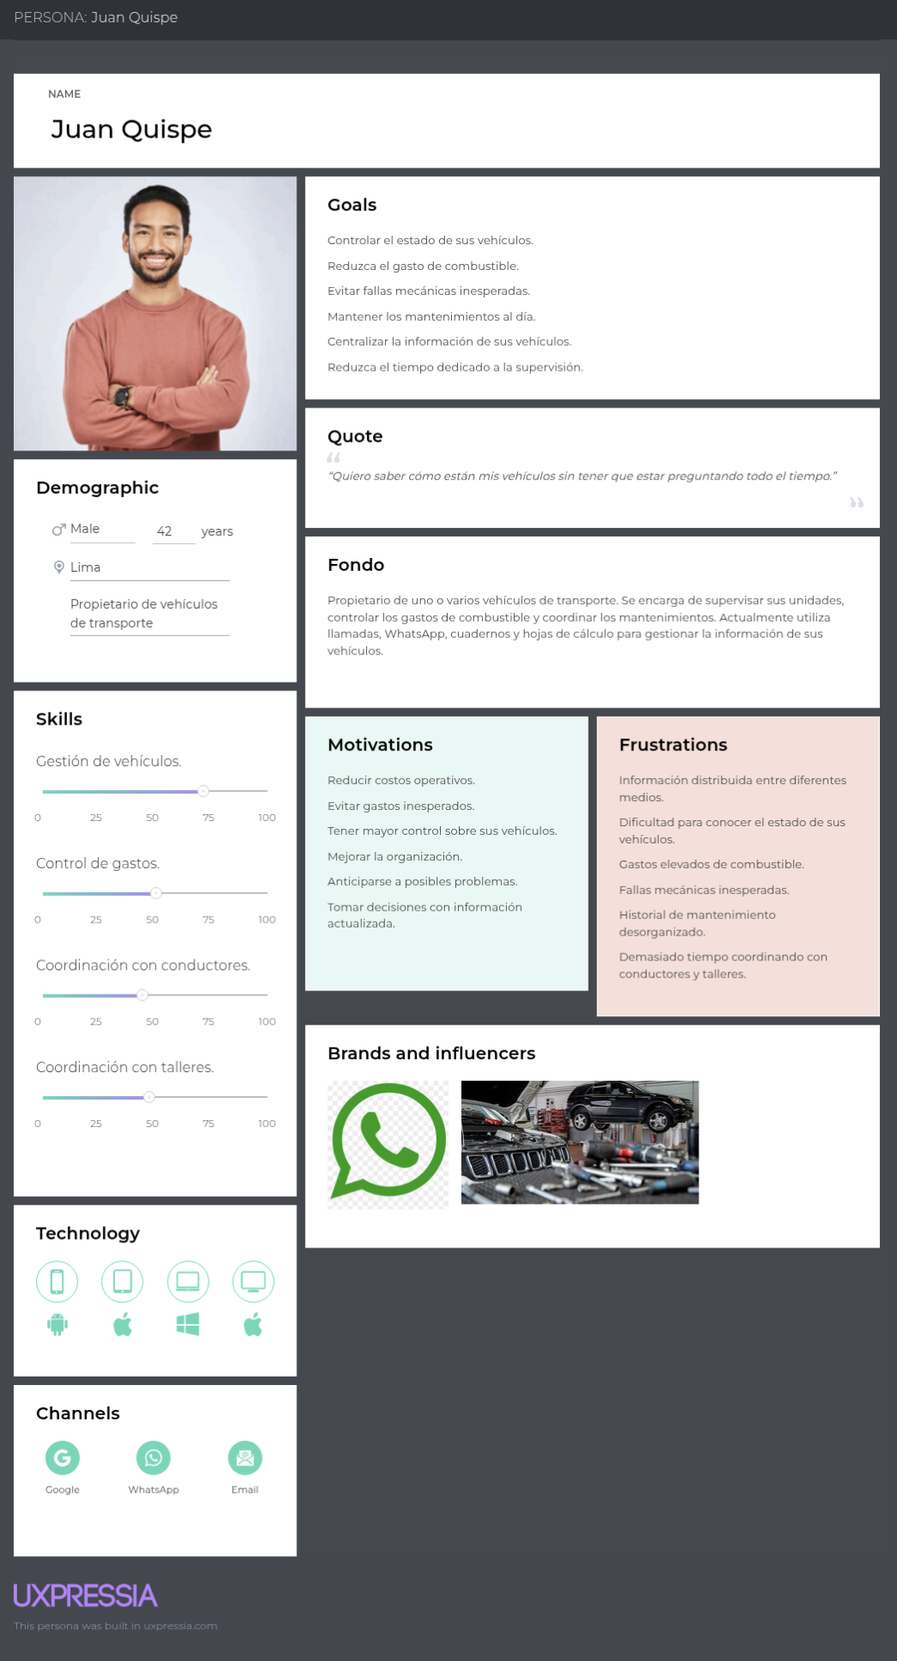
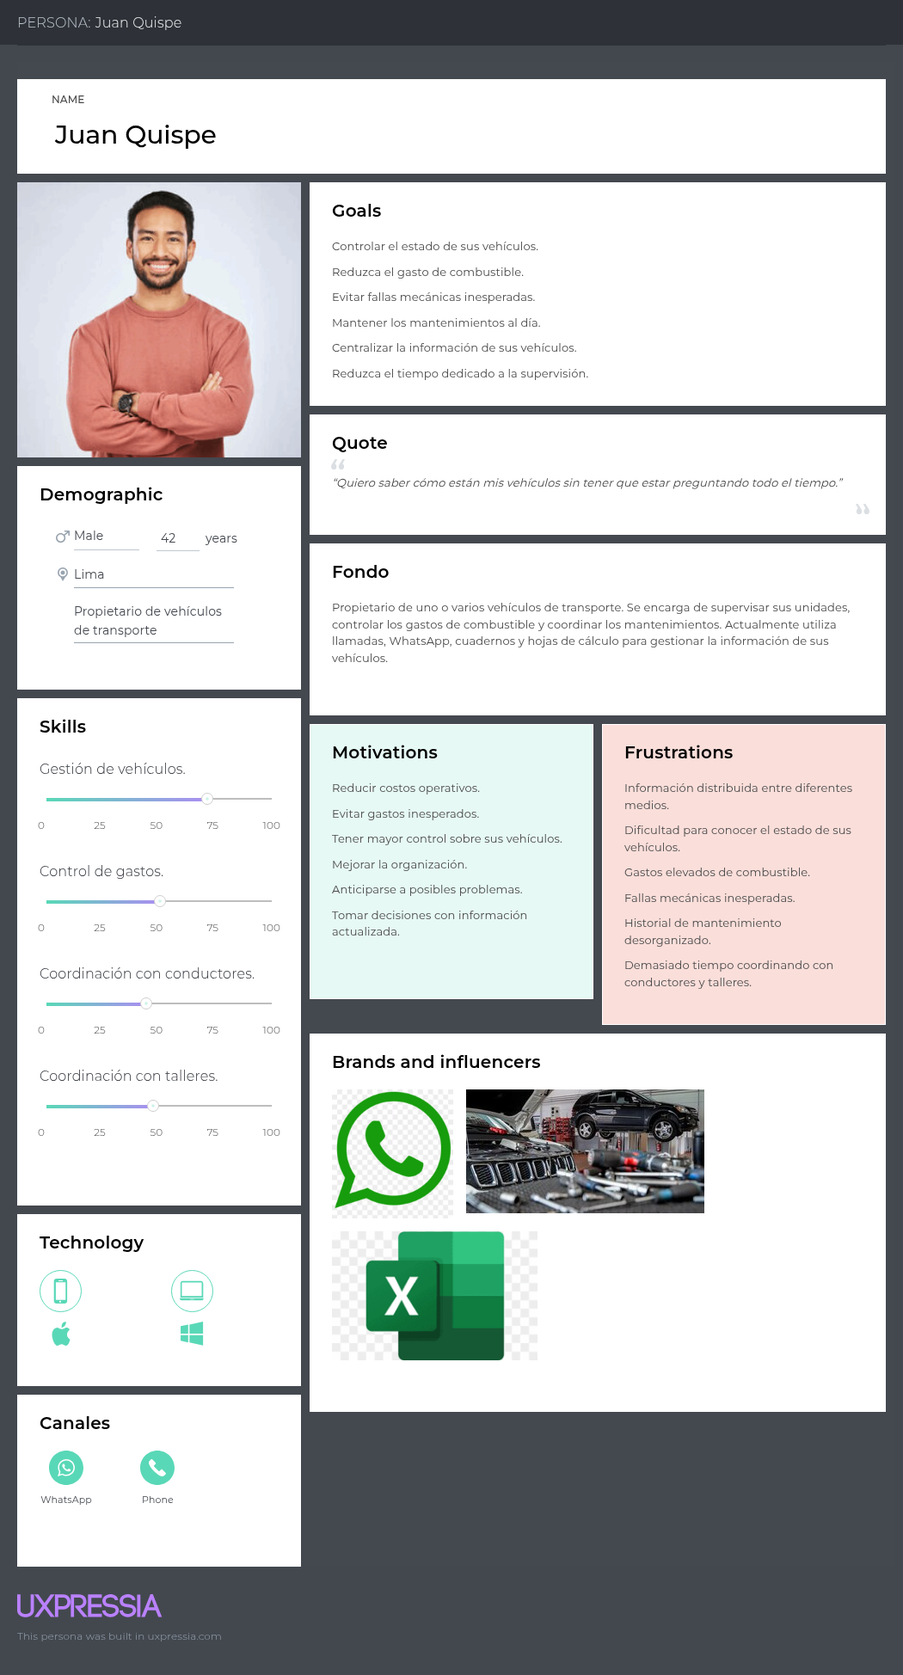
docs: update needfinding and eventstorming sections

diff --git a/report/24-big-picture-eventstorming.md b/report/24-big-picture-eventstorming.md
@@ -2,11 +2,9 @@
 
 
 
-Para iniciar el modelado de la arquitectura de **FLOTIX**, el equipo realizó una sesión de **Big Picture Event Storming**. El objetivo principal fue explorar de manera integral el dominio de la gestión de flotas, identificando los eventos significativos que ocurren durante el ciclo de vida de los vehículos y las actividades relacionadas con su operación, combustible, mantenimiento, incidencias y monitoreo.
+Para iniciar el modelado de la arquitectura de FLOTIX, el equipo realizó una sesión de Big Picture Event Storming centrada en el proceso actual del negocio, sin la plataforma. El objetivo fue explorar cómo se gestionan hoy las flotas de transporte, identificando los eventos significativos que ocurren durante la operación diaria, el control de combustible y kilometraje, las incidencias y el mantenimiento, cuando se depende de hojas de cálculo, cuadernos físicos, llamadas telefónicas y mensajería instantánea.
 
-
-
-Durante esta etapa, se utilizó una narrativa cronológica para representar los principales eventos del negocio y comprender la interacción entre los diferentes actores y procesos de FLOTIX. El equipo tomó como referencia los nueve **Bounded Contexts** identificados: *Vehicle & Fleet Management, Fuel Control, Maintenance Management, Incident Management, Real-Time Monitoring / Fleet Tracking, Alerts & Notifications, Identity, Profiles & Security, Digital Experience / IoT Commerce* y *Reporting & Analytics*.
+Se utilizó una narrativa cronológica para representar los eventos del negocio y entender la interacción entre los actores involucrados: el dueño o administrador, el conductor, el taller mecánico y el pasajero. El propósito no fue definir detalles técnicos, sino obtener una visión general del dominio, identificar los puntos críticos del proceso actual y establecer un lenguaje común (Ubiquitous Language) entre los integrantes del equipo.
 
 
 
@@ -22,11 +20,10 @@ A través del proceso de Big Picture EventStorming, logramos identificar los pri
 
 
 
-- **Eventos del Dominio (Naranja):** Se identificaron eventos importantes como "Vehículo Registrado", "Conductor Asignado", "Combustible Registrado", "Kilometraje Actualizado", "Mantenimiento Programado", "Incidencia Reportada" y "Vehículo Disponible".
+- **Eventos del Dominio (Naranja):** se identificaron 22 eventos, entre ellos Vehicle Registered in Spreadsheet, Driver Assigned by Phone Call, Fuel Expense Recorded in Notebook, Incident Reported by Phone Call, Repair Quote Given Verbally y Emergency Repair Performed.
+- **Puntos de Dolor (Rosado):** registro manual de combustible y kilometraje, ausencia de información centralizada sobre el estado de los vehículos, reporte tardío de fallas, cotizaciones y aprobaciones sin respaldo y mantenimiento que depende de la memoria del dueño.
+- **Hotspots (Púrpura):** falta de ubicación y visibilidad en tiempo real, imposibilidad de verificar el consumo real de combustible, ausencia de historial del vehículo y detección tardía de sobrecostos.
 
-- **Puntos de Dolor (Rosado):** Se identificaron dificultades relacionadas con el registro manual de combustible y kilometraje, la falta de información centralizada sobre el estado de los vehículos, el reporte tardío de fallas y la poca visibilidad sobre el mantenimiento preventivo.
-
-- **Hotspots (Púrpura):** Se detectaron puntos que requieren especial atención, principalmente la necesidad de contar con información actualizada mediante dispositivos IoT/GPS, alertas automáticas para mantenimiento y un historial que permita realizar seguimiento a las incidencias y gastos de cada vehículo.
 
 
 
@@ -36,33 +33,22 @@ A través del proceso de Big Picture EventStorming, logramos identificar los pri
 
 ## Paso 1: Exploración Desestructurada (Unstructured Exploration)
 
+Esta primera fase consistió en una lluvia de ideas para identificar los Eventos de Dominio del proceso actual. El equipo identificó 22 eventos, agrupados por actividad:
+
+- **Registro y asignación:** Vehicle Registered in Spreadsheet, Driver Assigned by Phone Call.
+- **Operación diaria:** Route Started, Departure Reported by WhatsApp, Mileage Noted in Notebook.
+- **Combustible:** Fuel Purchased, Fuel Expense Recorded in Notebook, Fuel Receipt Delivered to Owner, Fuel Expenses Entered in Spreadsheet.
+- **Incidencias:** Vehicle Failure Detected by Driver, Incident Reported by Phone Call.
+- **Mantenimiento:** Owner Called Workshop, Vehicle Taken to Workshop, Repair Quote Given Verbally, Repair Approved by Phone, Emergency Repair Performed, Repair Paid in Cash, Maintenance Remembered by Owner.
+- **Pasajero:** Passenger Waited for Vehicle, Passenger Called Driver for Location.
+- **Control:** Monthly Expenses Reviewed Manually, Fuel Overspending Noticed Late.
 
 
-Esta primera fase consistió en una sesión de lluvia de ideas orientada a identificar los principales Eventos de Dominio relacionados con la gestión de flotas de FLOTIX.
 
 
 
-El equipo identificó eventos correspondientes a las diferentes actividades realizadas por los administradores, conductores y responsables de mantenimiento, entre ellos:
 
-
-
-- **Gestión de Vehículos:** Eventos como `Vehicle Registered`, `Vehicle Information Updated` y `Vehicle Status Updated`.
-
-- **Gestión de Conductores:** Eventos como `Driver Registered`, `Driver Assigned to Vehicle` y `Driver Assignment Updated`.
-
-- **Control de Combustible:** Eventos como `Fuel Consumption Registered` y `Fuel Expense Recorded`.
-
-- **Control de Kilometraje:** Eventos como `Mileage Registered` y `Mileage Updated`.
-
-- **Gestión de Mantenimiento:** Eventos como `Maintenance Scheduled`, `Maintenance Completed` y `Vehicle Maintenance Required`.
-
-- **Gestión de Incidencias:** Eventos como `Vehicle Incident Reported`, `Incident Assigned` e `Incident Resolved`.
-
-- **Monitoreo de Flota:** Eventos relacionados con la ubicación y estado del vehículo, como `Vehicle Location Updated` y `Vehicle Tracking Started`.
-
-- **Alertas:** Identificación de eventos relacionados con alertas por mantenimiento próximo, consumo elevado de combustible o incidencias detectadas.
-
-![Step 1 - Unstructured Exploration](../assets/images/step1.png)
+![Step 1 - Unstructured Exploration](../assets/images/step-1.png)
 
 
 
@@ -72,25 +58,13 @@ El equipo identificó eventos correspondientes a las diferentes actividades real
 
 ## Paso 2: Líneas de Tiempo (Timelines)
 
+Los eventos fueron organizados cronológicamente para representar el flujo actual de operaciones, en cuatro carriles:
 
-
-En este paso, los eventos identificados durante la exploración desestructurada fueron organizados cronológicamente para representar el flujo principal de operaciones de FLOTIX y establecer el **Happy Path**.
-
-
-
-- **Registro y configuración inicial:** El proceso comienza con el registro del vehículo y sus datos principales, seguido por el registro y asignación del conductor correspondiente.
-
-- **Operación del vehículo:** Durante la jornada, se registra el consumo de combustible y el kilometraje recorrido. Mediante la integración con dispositivos IoT/GPS, FLOTIX puede recibir información actualizada sobre la ubicación y el estado del vehículo.
-
-- **Detección de necesidades de mantenimiento:** A partir del kilometraje, tiempo de uso o información registrada, se puede generar una alerta cuando el vehículo requiere mantenimiento.
-
-- **Reporte de incidencias:** Si el conductor detecta una falla durante la operación, puede registrar una incidencia para que el administrador o responsable del mantenimiento pueda gestionarla.
-
-- **Resolución:** La incidencia es evaluada y posteriormente se realiza el mantenimiento o reparación correspondiente, actualizando el estado del vehículo.
-
-- **Continuidad operativa:** Una vez solucionada la incidencia y verificado el vehículo, este puede volver a estar disponible para la operación.
-
-![Step 2 - Timelines](../assets/images/step2.png)
+- **Registro y configuración inicial:** el dueño registra el vehículo en una hoja de cálculo (Vehicle Registered in Spreadsheet) y asigna al conductor mediante una llamada (Driver Assigned by Phone Call).
+- **Operación diaria:** el conductor inicia la ruta (Route Started) y avisa por WhatsApp (Departure Reported by WhatsApp). Anota el kilometraje en un cuaderno (Mileage Noted in Notebook), compra combustible (Fuel Purchased), registra el gasto (Fuel Expense Recorded in Notebook) y entrega el comprobante al dueño (Fuel Receipt Delivered to Owner), quien lo digita en la hoja de cálculo (Fuel Expenses Entered in Spreadsheet). Mientras tanto, el pasajero espera sin información (Passenger Waited for Vehicle) y llama al conductor para saber dónde está (Passenger Called Driver for Location).
+- **Incidencias y mantenimiento:** el conductor detecta una falla (Vehicle Failure Detected by Driver) y la reporta por teléfono (Incident Reported by Phone Call). El dueño llama al taller (Owner Called Workshop), el vehículo es llevado (Vehicle Taken to Workshop) y el taller da una cotización verbal (Repair Quote Given Verbally), que el dueño aprueba por teléfono (Repair Approved by Phone). Se realiza la reparación de emergencia (Emergency Repair Performed) y se paga en efectivo (Repair Paid in Cash).
+- **Control y análisis:** el dueño revisa manualmente los gastos del mes (Monthly Expenses Reviewed Manually), nota tarde el sobrecosto (Fuel Overspending Noticed Late) y recuerda un mantenimiento pendiente solo por memoria (Maintenance Remembered by Owner).
+![Step 2 - Timelines](../assets/images/step-2.png)
 
 
 
@@ -100,33 +74,24 @@ En este paso, los eventos identificados durante la exploración desestructurada 
 
 ## Paso 3: Líneas de Tiempo con Puntos Críticos (Timelines with Hotspots)
 
+En la última etapa se incorporaron los Hotspots (púrpura) para identificar los puntos de dolor y riesgos del proceso actual:
 
+- **Estado de la flota desconocido:** la hoja de cálculo no refleja el estado real de cada unidad (Vehicle Registered in Spreadsheet).
+- **Asignación sin trazabilidad:** depende de llamadas y no queda registro de quién usó cada vehículo (Driver Assigned by Phone Call).
+- **Sin ubicación en tiempo real:** el dueño depende de avisos por WhatsApp (Departure Reported by WhatsApp).
+- **Kilometraje poco confiable:** puede olvidarse, errarse o alterarse (Mileage Noted in Notebook).
+- **Combustible sin verificación:** no se puede comprobar el consumo real ni detectar pérdidas (Fuel Expense Recorded in Notebook).
+- **Doble digitación y pérdida de comprobantes:** aumenta el riesgo de errores (Fuel Expenses Entered in Spreadsheet).
+- **Fallas detectadas tarde:** el problema se nota cuando el vehículo ya falló (Vehicle Failure Detected by Driver).
+- **Coordinación lenta con el taller:** no hay historial del vehículo para el mecánico (Owner Called Workshop).
+- **Cotizaciones verbales:** no hay evidencia ni trazabilidad (Repair Quote Given Verbally).
+- **Mantenimiento correctivo de emergencia:** es más costoso que el preventivo (Emergency Repair Performed).
+- **Mantenimiento por memoria:** el preventivo no se programa a tiempo (Maintenance Remembered by Owner).
+- **Pasajero sin información confiable:** debe llamar para saber dónde está su vehículo (Passenger Called Driver for Location).
+- **Sobrecostos detectados semanas después:** la revisión es manual y tardía (Fuel Overspending Noticed Late).
 
-En la última etapa se incorporaron los **Hotspots**, representados en color púrpura, con el objetivo de identificar puntos de dolor, riesgos y situaciones que pueden afectar la operación de la flota.
-
-
-
-Las principales observaciones fueron:
-
-
-
-- **Registro manual de información:** El registro de combustible y kilometraje puede depender de anotaciones manuales, aumentando el riesgo de errores y pérdida de información.
-
-- **Falta de información en tiempo real:** Sin una integración adecuada con GPS e IoT, el administrador puede tener dificultades para conocer la ubicación y el estado actual de los vehículos.
-
-- **Mantenimiento reactivo:** Cuando las fallas no son detectadas o reportadas oportunamente, el mantenimiento puede realizarse después de que el problema ya afecta la operación del vehículo.
-
-- **Reporte tardío de incidencias:** La comunicación entre el conductor, administrador y taller puede generar retrasos cuando una falla no se registra inmediatamente.
-
-- **Control del consumo de combustible:** La falta de información consolidada dificulta identificar variaciones en el consumo y controlar los gastos asociados a cada vehículo.
-
-- **Ausencia de alertas automáticas:** Sin alertas basadas en kilometraje, tiempo o estado del vehículo, existe el riesgo de no realizar mantenimientos preventivos en el momento adecuado.
-
-- **Trazabilidad de operaciones:** La falta de un historial centralizado de combustible, kilometraje, mantenimiento e incidencias dificulta analizar el comportamiento y evolución de cada vehículo.
-
-- **Hotspot de integración IoT/GPS:** La incorporación de dispositivos IoT representa un punto que requiere definición técnica para garantizar que los datos del vehículo sean recibidos y actualizados correctamente en la plataforma.
-
-![Step 3 - Timelines with Hotspots](../assets/images/step3.png)
+Estos hallazgos evidencian las necesidades que FLOTIX debe abordar: centralizar la información de la flota, automatizar el registro de combustible y kilometraje mediante IoT/GPS, habilitar alertas de mantenimiento preventivo y mantener un historial trazable de cada vehículo.
+![Step 3 - Timelines with Hotspots](../assets/images/step-3.png)
 
 
 

diff --git a/report/23-needfinding.md b/report/23-needfinding.md
@@ -4,10 +4,7 @@
 
 ### 2.3.1. User Personas
 
-
-
-En esta sección se presentan las User Personas de los segmentos objetivo de FLOTIX, construidas a partir del análisis de las entrevistas y del contexto del mercado. Estos arquetipos representan las principales necesidades, comportamientos, objetivos y frustraciones de los usuarios involucrados en la gestión de flotas, y sirven como base para orientar el diseño de la solución.
-
+Las User Personas de FLOTIX son arquetipos ideales que sintetizan lo observado en las entrevistas y en el contexto del mercado. No son retratos de los entrevistados: cada una representa a un usuario típico de su segmento, con su día a día, sus herramientas actuales y lo que espera de una solución.
 
 
 #### User Persona del 1er segmento objetivo – Dueños de vehículos
@@ -15,16 +12,14 @@ En esta sección se presentan las User Personas de los segmentos objetivo de FLO
 ![foto](../assets/images/user-persona-1.png)
 
 
-**Juan Quispe** representa al segmento de dueños de vehículos, construido a partir de las entrevistas realizadas a *Karen Forcelledo*. Se definió como una persona de *39* años, ubicada en Lima, que posee uno o varios vehículos destinados al transporte particular, de pasajeros o de carga, y que participa directamente en las decisiones relacionadas con el combustible, mantenimiento y operación de sus unidades. Sus objetivos de mantener un mayor control sobre sus vehículos, reducir el gasto de combustible, conocer oportunamente el estado de sus unidades y prevenir fallas mecánicas responden a las principales necesidades identificadas en el segmento. Sus frustraciones están relacionadas con el uso de hojas de cálculo, cuadernos o aplicaciones de mensajería para registrar información, la dificultad para conocer el estado real de cada vehículo y la necesidad de coordinar los mantenimientos mediante llamadas o mensajes con los talleres. También existe preocupación por los costos generados por mantenimientos correctivos inesperados y por no contar con información centralizada para tomar decisiones. Sus principales influencias están relacionadas con empresas y servicios del sector automotriz y de transporte que ofrecen soluciones de monitoreo y gestión vehicular. Sus canales incluyen WhatsApp, llamadas, hojas de cálculo, computadora y smartphone, utilizados para coordinar con conductores, talleres y realizar el seguimiento de sus vehículos.
-
+Juan Quispe representa al segmento de dueños de vehículos, construido a partir de las entrevistas realizadas a Karen Forcelledo. Es un hombre de 42 años que vive en San Juan de Lurigancho, en Lima, y dirige una pequeña empresa de transporte de carga con cuatro camiones y una camioneta. Empezó con una sola unidad y fue ampliando su flota con los años, por lo que hoy administra todo él mismo con el apoyo de su esposa, que lleva las cuentas. Tiene formación técnica en administración y utiliza un smartphone Android y una laptop. Participa directamente en las decisiones sobre combustible, mantenimiento y asignación de choferes, y cuando una unidad falla pierde el servicio y el ingreso de ese día. Sus objetivos son conocer el estado de cada vehículo sin tener que llamar a los conductores, reducir el gasto de combustible, que es su mayor costo operativo, prevenir fallas mecánicas en lugar de pagar reparaciones de emergencia y reunir en un solo lugar el historial de gastos y mantenimientos. Sus frustraciones se relacionan con el uso de hojas de cálculo, cuadernos y mensajes de WhatsApp, donde la información se pierde o llega tarde, con la duda constante sobre si el consumo de combustible que le reportan es real, y con la necesidad de coordinar los mantenimientos mediante llamadas y mensajes con los talleres. Los mantenimientos correctivos inesperados le generan gastos que no tenía previstos. Sus canales actuales son WhatsApp, las llamadas, Excel y la laptop, que usa para revisar la información al final de la semana. Sus principales influencias son otros dueños de flotas, los talleres de confianza y los proveedores de monitoreo vehicular que conoce por recomendación. No tiene conocimientos técnicos avanzados, por lo que espera un panel simple, accesible desde el celular o la computadora, que le muestre el estado de sus unidades y le avise antes de que algo falle.
 
 #### User Persona del 2do segmento objetivo – Conductores
 
 ![foto](../assets/images/user-persona-2.png)
 
 
-**Jorge Samudio** representa al segmento de conductores, construido a partir de la entrevista realizada a Ronald Enrique Ramirez, conductor de 51 años ubicado en Lima. Su perfil representa a las personas que operan diariamente un vehículo y que tienen contacto directo con actividades como el abastecimiento de combustible, control del kilometraje, identificación de incidencias y comunicación de problemas mecánicos al dueño o administrador. Sus objetivos se centran en realizar su jornada de manera eficiente, mantener el vehículo en buenas condiciones y comunicar rápidamente cualquier incidencia que pueda afectar su trabajo. Sus frustraciones están relacionadas con los procesos manuales para reportar fallas, la comunicación con el dueño o administrador y la falta de mecanismos simples que permitan registrar información del vehículo durante la jornada. Debido a que el conductor necesita concentrarse en la operación del vehículo, una herramienta demasiado compleja podría dificultar su adopción. Por ello, valora soluciones rápidas, sencillas y accesibles desde el smartphone. Sus principales canales son WhatsApp, llamadas y smartphone, que utiliza para comunicarse con el propietario o administrador y reportar incidencias relacionadas con el vehículo.
-
+Jorge Samudio representa al segmento de conductores, construido a partir de la entrevista realizada a Ronald Enrique Ramirez. Es un hombre de 51 años que vive en Lima, tiene secundaria completa y más de veinte años de experiencia como chofer de transporte de carga. Maneja jornadas largas y está en contacto directo con el vehículo: carga combustible, anota el kilometraje y es el primero en notar cuando algo suena distinto. Usa un smartphone Android con un plan de datos limitado, principalmente para llamadas y WhatsApp, y no es aficionado a aprender aplicaciones nuevas. Si una herramienta le quita tiempo o lo distrae mientras maneja, simplemente no la usa. Sus objetivos son terminar su jornada sin contratiempos, mantener el vehículo en buenas condiciones para evitar fallas en ruta, avisar rápidamente al dueño cuando algo anda mal y evitar que le atribuyan un gasto o una falla que no fue su responsabilidad. Sus frustraciones están relacionadas con los procesos manuales: reportar una falla implica llamar o escribir al dueño, que no siempre contesta de inmediato, y anotar combustible y kilometraje en papel le resulta tedioso y a veces se olvida de hacerlo. Las herramientas con muchos pasos o menús lo abruman y no cuenta con un registro propio que respalde lo que reporta. Sus canales actuales son WhatsApp y las llamadas, junto con anotaciones en papel o de memoria. Como necesita concentrarse en la conducción, valora las soluciones rápidas y sencillas desde el smartphone, y espera poder reportar combustible o una incidencia en pocos toques, con botones grandes y textos claros.
 
 
 #### User Persona del 3er segmento objetivo – Mecánicas
@@ -32,8 +27,7 @@ En esta sección se presentan las User Personas de los segmentos objetivo de FLO
 ![foto](../assets/images/user-persona-3.png)
 
 
-**Matias Zavala** representa al segmento de mecánicas, construido a partir de la entrevista realizada a Jorge Zambudio Alcántara, mecánico automotriz de 27 años ubicado en Lima. Su perfil representa a técnicos y talleres mecánicos que atienden vehículos particulares y de empresas y que necesitan organizar las solicitudes de mantenimiento, consultar información de los vehículos y administrar los trabajos pendientes. Su objetivo principal es organizar mejor la atención de sus clientes, reducir el tiempo dedicado a coordinar servicios y disponer de información suficiente sobre cada vehículo antes de realizar un diagnóstico. La entrevista evidencia que actualmente utiliza llamadas, WhatsApp, Word y calendarios para gestionar clientes y mantenimientos, mientras que el historial de los vehículos, aunque existe, resulta difícil de consultar y no siempre contiene información completa sobre reparaciones o accidentes anteriores. Sus principales frustraciones aparecen cuando existe una alta demanda de servicios y pocos mecánicos disponibles, generando saturación y dificultades para organizar las atenciones. Además, considera útil contar con el historial del vehículo antes de recibirlo para mantenimiento, aunque señala que el diagnóstico debe ser realizado directamente por el equipo de mecánicos y no mediante un preprocesamiento automático. Sus canales actuales incluyen WhatsApp, llamadas, Word y calendarios, herramientas que utiliza para coordinar servicios, organizar trabajos y mantener comunicación con sus clientes.
-
+Matías Zavala representa al segmento de mecánicas, construido a partir de la entrevista realizada a Jorge Zambudio Alcántara. Es un hombre de 27 años que vive en Lima, es técnico en mecánica automotriz y tiene seis años de experiencia en el rubro. Trabaja en un taller pequeño junto con otros dos mecánicos y atiende vehículos particulares y de empresas. Utiliza un smartphone y una computadora en el taller. Recibe las solicitudes de mantenimiento por llamadas y WhatsApp, y organiza su trabajo con calendarios y documentos de Word. Cuando la demanda aumenta, el taller se satura y resulta difícil ordenar quién atiende cada vehículo. Sus objetivos son organizar mejor las solicitudes y los trabajos pendientes, reducir el tiempo que pierde coordinando por teléfono, conocer el historial del vehículo antes de recibirlo y fidelizar a sus clientes con un servicio ordenado y confiable. Sus frustraciones aparecen porque el historial de los vehículos existe, pero está disperso y es difícil de consultar, y a menudo no incluye información sobre reparaciones o accidentes anteriores. Con alta demanda y pocos mecánicos, los trabajos se acumulan y se desordenan, y los clientes llegan sin información sobre lo que le ocurrió al vehículo. Sus canales actuales son WhatsApp, las llamadas, Word y los calendarios. Espera contar con las solicitudes ordenadas y con el historial del vehículo antes de recibirlo, aunque tiene claro que el diagnóstico debe ser realizado por el equipo de mecánicos y no mediante un procesamiento automático, de modo que la información previa le sirva como apoyo y no como reemplazo.
 
 
 ### 2.3.2. User Task Matrix
